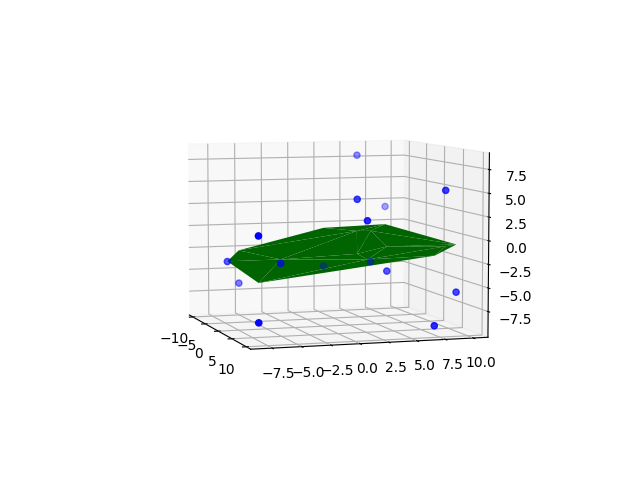
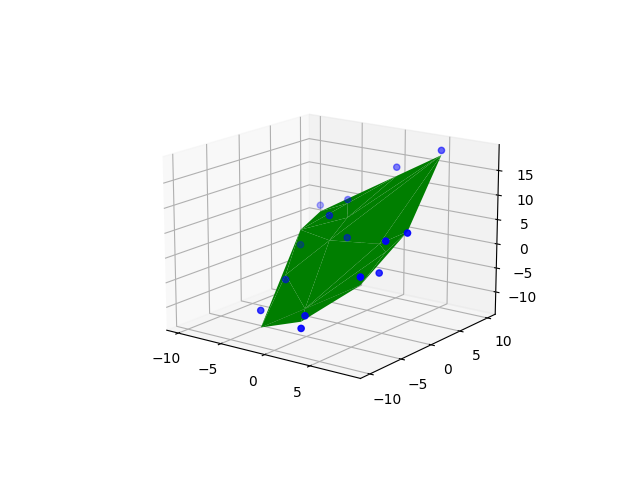
Improve 3D imageL

diff --git a/vis.py b/vis.py
@@ -48,7 +48,7 @@ def show_3d_regression( data: list[ Sample ],
     ax.plot_trisurf( xs, ys, zs, color="g" )
     plt.show( )
 
-model = LinearRegression( 1 )
-dataset = datagen.create_dataset( 15, 1 )
+model = LinearRegression( 2 )
+dataset = datagen.create_dataset( 15, 2 )
 model.learn( dataset )
-show_2d_regression( dataset, model )
+show_3d_regression( dataset, model )
